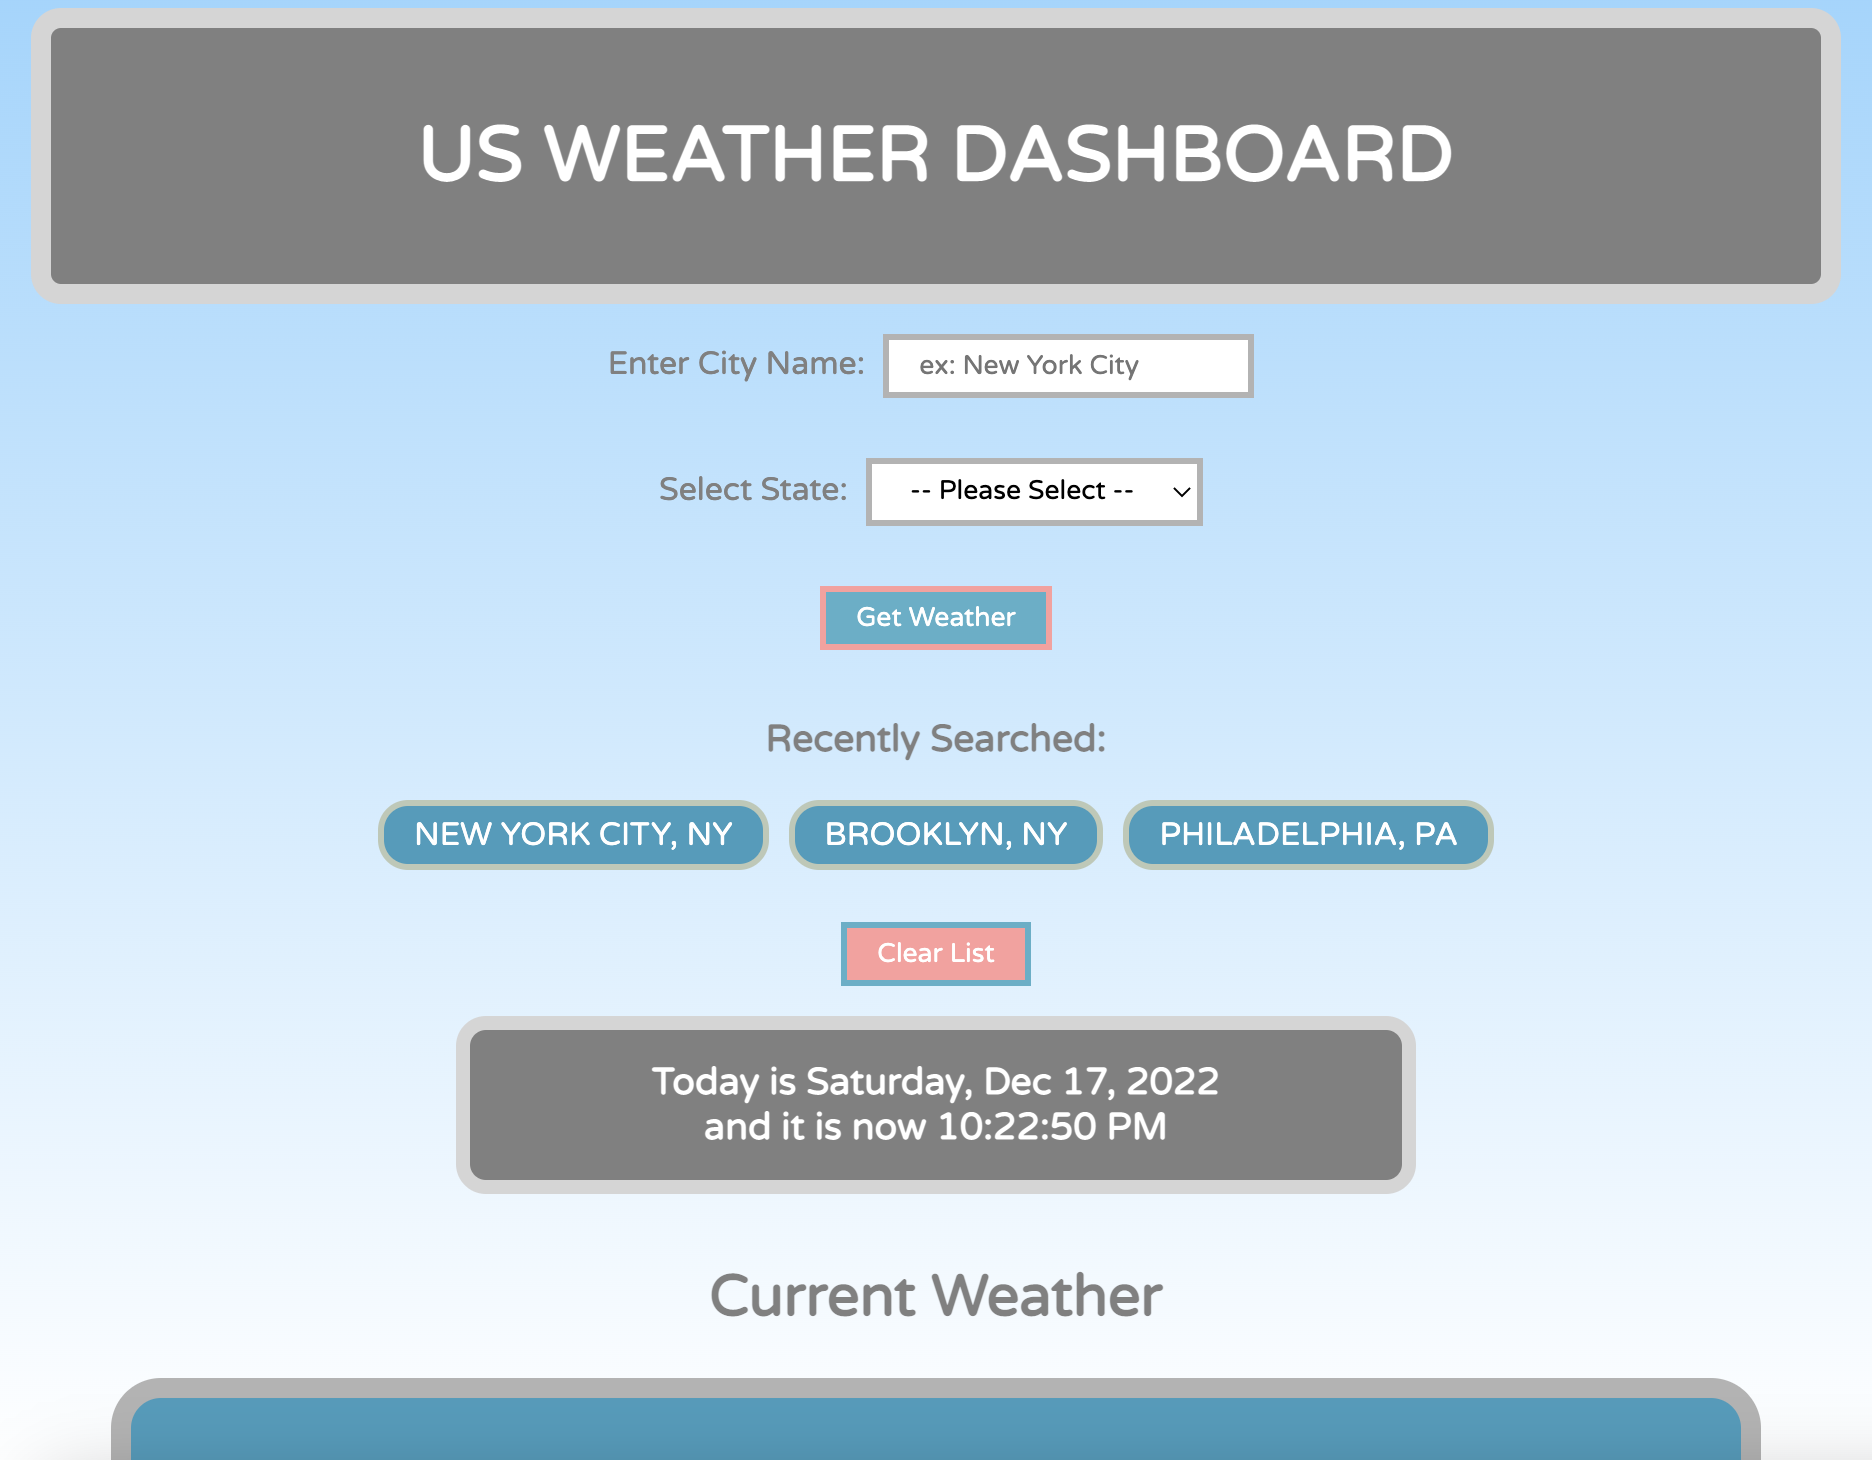
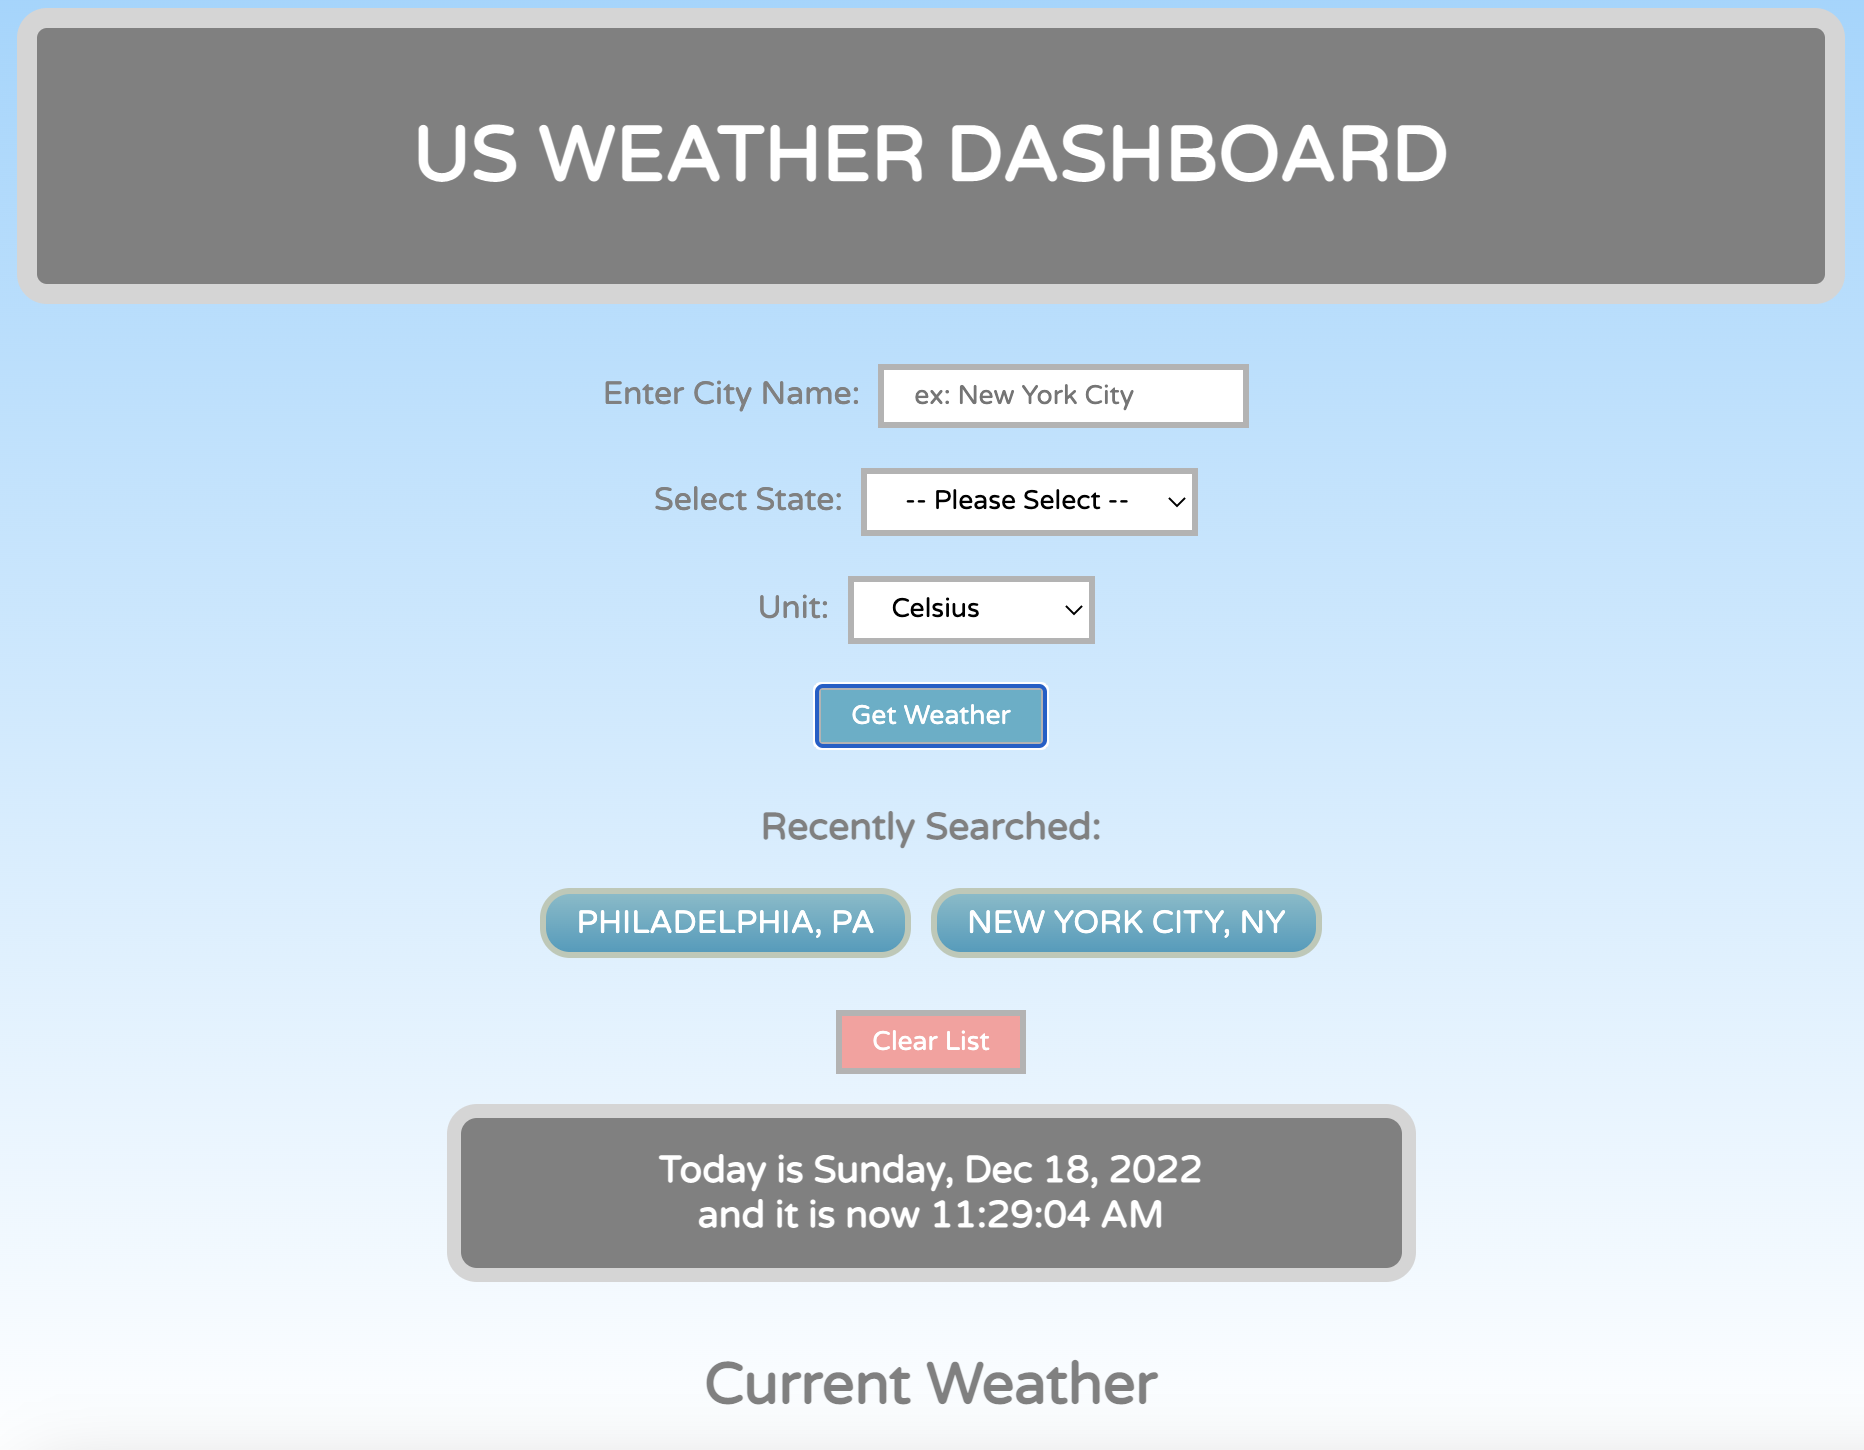
added functionality in js

diff --git a/Assets/script.js b/Assets/script.js
@@ -28,6 +28,7 @@ alarm.src = "Assets/Sound Effects/Hour Countdown.wav";
 
 var weatherDate = dayjs().format('ddd, MM / DD, YYYY');
 
+
 setInterval(function() {  
     var date = dayjs().format('dddd, MMM DD, YYYY');
     var time = dayjs().format('h:mm:ss A');  
@@ -39,6 +40,7 @@ setInterval(function() {
 
 
 },1000);
+
 
 
 // Retrieves search history from local storage and display previously searched cities with dataset of city info inside the html tag
@@ -63,6 +65,7 @@ $("#forecast-container").hide();
 $("#warning-1").hide();
 $("#warning-2").hide();
 $("#warning-3").hide();
+
 
 // Loops through previously searched city and displays as an unordered list
 // Need to figure out how to remove duplicates!
@@ -92,6 +95,10 @@ function getApi(event) {
     event.preventDefault(); 
 
     event.stopPropagation();
+
+    // Selects the chosen temp unit
+    var unit = $("#system").val();
+    var symbol = $("#system option:selected").attr("data-unit");
 
 
     // Takes input from user
@@ -229,7 +236,7 @@ function getApi(event) {
 
         
         // API request for current weather
-        var getCurrentUrl = "https://api.openweathermap.org/data/2.5/weather?lat=" + latitude + "&lon=" + longitude + "&units=imperial&appid=7df7243f5169b46433ea853892fbb930";
+        var getCurrentUrl = "https://api.openweathermap.org/data/2.5/weather?lat=" + latitude + "&lon=" + longitude + "&units=" + unit + "&appid=7df7243f5169b46433ea853892fbb930";
 
         // Displays weather boxes
         $("#current-weather-container").show();
@@ -256,16 +263,16 @@ function getApi(event) {
             $("#today").text(weatherDate);
             $("#weather-icon").attr("src","https://openweathermap.org/img/w/" + data.weather[0].icon + ".png");
             $("#condition").text(data.weather[0].description.toUpperCase());
-            $("#temp").text("Temperature: " + data.main.temp + "°F");
-            $("#feel").text("Feels Like: " + data.main.feels_like + "°F");
-            $("#temp-max").text("High: " + data.main.temp_max + "°F");
-            $("#temp-min").text("Low: " + data.main.temp_min + "°F");
+            $("#temp").text("Temperature: " + data.main.temp + symbol);
+            $("#feel").text("Feels Like: " + data.main.feels_like + symbol);
+            $("#temp-max").text("High: " + data.main.temp_max + symbol);
+            $("#temp-min").text("Low: " + data.main.temp_min + symbol);
             $("#wind").text("Wind Speed: " + data.wind.speed + "mph");
             $("#humidity").text("Humidity: " + data.main.humidity + "%")
         })
 
         // API request url for 5-day forecast
-        var getForecastUrl = "https://api.openweathermap.org/data/2.5/forecast?lat=" +latitude + "&lon=" + longitude + "&units=imperial&appid=7df7243f5169b46433ea853892fbb930";
+        var getForecastUrl = "https://api.openweathermap.org/data/2.5/forecast?lat=" +latitude + "&lon=" + longitude + "&units=" + unit + "&appid=7df7243f5169b46433ea853892fbb930";
 
         // GET request for 5-day forecast
         fetch(getForecastUrl)
@@ -296,7 +303,7 @@ function getApi(event) {
             $("#date-1").text(dateArray1[1] + " / " + dateArray1[2] + ", " + dateArray1[0]);
             $("#weather-icon-1").attr("src","https://openweathermap.org/img/w/" + data.list[4].weather[0].icon + ".png");
             $("#condition-1").text(data.list[4].weather[0].description.toUpperCase());
-            $("#temp-1").text("Temperature: " + data.list[4].main.temp + "°F");
+            $("#temp-1").text("Temperature: " + data.list[4].main.temp + symbol);
             $("#humidity-1").text("Humidity: " + data.list[4].main.humidity + "%");
             $("#wind-1").text("Wind Speed: " + data.list[4].wind.speed + "mph");
 
@@ -304,7 +311,7 @@ function getApi(event) {
             $("#date-2").text(dateArray2[1] + " / " + dateArray2[2] + ", " + dateArray2[0]);
             $("#weather-icon-2").attr("src","https://openweathermap.org/img/w/" + data.list[12].weather[0].icon + ".png");
             $("#condition-2").text(data.list[12].weather[0].description.toUpperCase());
-            $("#temp-2").text("Temperature: " + data.list[12].main.temp + "°F");
+            $("#temp-2").text("Temperature: " + data.list[12].main.temp + symbol);
             $("#humidity-2").text("Humidity: " + data.list[12].main.humidity + "%");
             $("#wind-2").text("Wind Speed: " + data.list[12].wind.speed + "mph");
 
@@ -312,7 +319,7 @@ function getApi(event) {
             $("#date-3").text(dateArray3[1] + " / " + dateArray3[2] + ", " + dateArray3[0]);
             $("#weather-icon-3").attr("src","https://openweathermap.org/img/w/" + data.list[20].weather[0].icon + ".png");
             $("#condition-3").text(data.list[20].weather[0].description.toUpperCase());
-            $("#temp-3").text("Temperature: " + data.list[20].main.temp + "°F");
+            $("#temp-3").text("Temperature: " + data.list[20].main.temp + symbol);
             $("#humidity-3").text("Humidity: " + data.list[20].main.humidity + "%");
             $("#wind-3").text("Wind Speed: " + data.list[20].wind.speed + "mph");
 
@@ -320,7 +327,7 @@ function getApi(event) {
             $("#date-4").text(dateArray4[1] + " / " + dateArray4[2] + ", " + dateArray4[0]);
             $("#weather-icon-4").attr("src","https://openweathermap.org/img/w/" + data.list[28].weather[0].icon + ".png");
             $("#condition-4").text(data.list[28].weather[0].description.toUpperCase());
-            $("#temp-4").text("Temperature: " + data.list[28].main.temp + "°F");
+            $("#temp-4").text("Temperature: " + data.list[28].main.temp + symbol);
             $("#humidity-4").text("Humidity: " + data.list[28].main.humidity + "%");
             $("#wind-4").text("Wind Speed: " + data.list[28].wind.speed + "mph");
 
@@ -328,7 +335,7 @@ function getApi(event) {
             $("#date-5").text(dateArray5[1] + " / " + dateArray5[2] + ", " + dateArray5[0]);
             $("#weather-icon-5").attr("src","https://openweathermap.org/img/w/" + data.list[36].weather[0].icon + ".png");
             $("#condition-5").text(data.list[36].weather[0].description.toUpperCase());
-            $("#temp-5").text("Temperature: " + data.list[36].main.temp + "°F");
+            $("#temp-5").text("Temperature: " + data.list[36].main.temp + symbol);
             $("#humidity-5").text("Humidity: " + data.list[36].main.humidity + "%");
             $("#wind-5").text("Wind Speed: " + data.list[36].wind.speed + "mph"); 
 
@@ -351,6 +358,10 @@ function getApi(event) {
 // To retrieve updated weather data from search history
 function refreshWeather(event) {
 
+    // Selects the chosen temp unit
+    var unit = $("#system").val();
+    var symbol = $("#system option:selected").attr("data-unit");
+
     startSearch.play();
     $("#warning-1").hide();
     $("#warning-2").hide();
@@ -370,7 +381,7 @@ function refreshWeather(event) {
 
 
 
-    var getCurrentUrl = "https://api.openweathermap.org/data/2.5/weather?lat=" + latitude + "&lon=" + longitude + "&units=imperial&appid=7df7243f5169b46433ea853892fbb930";
+    var getCurrentUrl = "https://api.openweathermap.org/data/2.5/weather?lat=" + latitude + "&lon=" + longitude + "&units=" + unit +"&appid=7df7243f5169b46433ea853892fbb930";
 
         // Displays weather boxes
         $("#current-weather-container").show();
@@ -389,16 +400,16 @@ function refreshWeather(event) {
             $("#today").text(weatherDate);
             $("#weather-icon").attr("src","https://openweathermap.org/img/w/" + data.weather[0].icon + ".png");
             $("#condition").text(data.weather[0].description.toUpperCase());
-            $("#temp").text("Temperature: " + data.main.temp + "°F");
-            $("#feel").text("Feels Like: " + data.main.feels_like + "°F");
-            $("#temp-max").text("High: " + data.main.temp_max + "°F");
-            $("#temp-min").text("Low: " + data.main.temp_min + "°F");
+            $("#temp").text("Temperature: " + data.main.temp + symbol);
+            $("#feel").text("Feels Like: " + data.main.feels_like + symbol);
+            $("#temp-max").text("High: " + data.main.temp_max + symbol);
+            $("#temp-min").text("Low: " + data.main.temp_min + symbol);
             $("#wind").text("Wind Speed: " + data.wind.speed + "mph");
             $("#humidity").text("Humidity: " + data.main.humidity + "%")
         })
 
         // API request url for 5-day forecast
-        var getForecastUrl = "https://api.openweathermap.org/data/2.5/forecast?lat=" +latitude + "&lon=" + longitude + "&units=imperial&appid=7df7243f5169b46433ea853892fbb930";
+        var getForecastUrl = "https://api.openweathermap.org/data/2.5/forecast?lat=" +latitude + "&lon=" + longitude + "&units=" + unit + "&appid=7df7243f5169b46433ea853892fbb930";
 
         // GET request for 5-day forecast
         fetch(getForecastUrl)
@@ -428,7 +439,7 @@ function refreshWeather(event) {
             $("#date-1").text(dateArray1[1] + " / " + dateArray1[2] + ", " + dateArray1[0]);
             $("#weather-icon-1").attr("src","https://openweathermap.org/img/w/" + data.list[4].weather[0].icon + ".png");
             $("#condition-1").text(data.list[4].weather[0].description.toUpperCase());
-            $("#temp-1").text("Temperature: " + data.list[4].main.temp + "°F");
+            $("#temp-1").text("Temperature: " + data.list[4].main.temp + symbol);
             $("#humidity-1").text("Humidity: " + data.list[4].main.humidity + "%");
             $("#wind-1").text("Wind Speed: " + data.list[4].wind.speed + "mph");
 
@@ -436,7 +447,7 @@ function refreshWeather(event) {
             $("#date-2").text(dateArray2[1] + " / " + dateArray2[2] + ", " + dateArray2[0]);
             $("#weather-icon-2").attr("src","https://openweathermap.org/img/w/" + data.list[12].weather[0].icon + ".png");
             $("#condition-2").text(data.list[12].weather[0].description.toUpperCase());
-            $("#temp-2").text("Temperature: " + data.list[12].main.temp + "°F");
+            $("#temp-2").text("Temperature: " + data.list[12].main.temp + symbol);
             $("#humidity-2").text("Humidity: " + data.list[12].main.humidity + "%");
             $("#wind-2").text("Wind Speed: " + data.list[12].wind.speed + "mph");
 
@@ -444,7 +455,7 @@ function refreshWeather(event) {
             $("#date-3").text(dateArray3[1] + " / " + dateArray3[2] + ", " + dateArray3[0]);
             $("#weather-icon-3").attr("src","https://openweathermap.org/img/w/" + data.list[20].weather[0].icon + ".png");
             $("#condition-3").text(data.list[20].weather[0].description.toUpperCase());
-            $("#temp-3").text("Temperature: " + data.list[20].main.temp + "°F");
+            $("#temp-3").text("Temperature: " + data.list[20].main.temp + symbol);
             $("#humidity-3").text("Humidity: " + data.list[20].main.humidity + "%");
             $("#wind-3").text("Wind Speed: " + data.list[20].wind.speed + "mph");
 
@@ -452,7 +463,7 @@ function refreshWeather(event) {
             $("#date-4").text(dateArray4[1] + " / " + dateArray4[2] + ", " + dateArray4[0]);
             $("#weather-icon-4").attr("src","https://openweathermap.org/img/w/" + data.list[28].weather[0].icon + ".png");
             $("#condition-4").text(data.list[28].weather[0].description.toUpperCase());
-            $("#temp-4").text("Temperature: " + data.list[28].main.temp + "°F");
+            $("#temp-4").text("Temperature: " + data.list[28].main.temp + symbol);
             $("#humidity-4").text("Humidity: " + data.list[28].main.humidity + "%");
             $("#wind-4").text("Wind Speed: " + data.list[28].wind.speed + "mph");
 
@@ -460,7 +471,7 @@ function refreshWeather(event) {
             $("#date-5").text(dateArray5[1] + " / " + dateArray5[2] + ", " + dateArray5[0]);
             $("#weather-icon-5").attr("src","https://openweathermap.org/img/w/" + data.list[36].weather[0].icon + ".png");
             $("#condition-5").text(data.list[36].weather[0].description.toUpperCase());
-            $("#temp-5").text("Temperature: " + data.list[36].main.temp + "°F");
+            $("#temp-5").text("Temperature: " + data.list[36].main.temp + symbol);
             $("#humidity-5").text("Humidity: " + data.list[36].main.humidity + "%");
             $("#wind-5").text("Wind Speed: " + data.list[36].wind.speed + "mph");
 

diff --git a/index.html b/index.html
@@ -92,6 +92,13 @@
                     <option value="WY">Wyoming</option>
                 </select>
             </div>
+            <div id="unit-input">
+                <label id="unit-label" for="system">Unit:</label>
+                <select name="system" id="system">
+                    <option value="imperial" data-unit="°F">Fahrenheit</option>
+                    <option value="metric" data-unit="°C">Celsius</option>
+                </select>
+            </div>
             <div id="submit">
                 <h3 id="warning-1" class="empty">Oops! Location Not Found!</h3>
                 <h3 id="warning-2" class="empty">Please Enter Both City and State!</h3>

diff --git a/Assets/style.css b/Assets/style.css
@@ -61,6 +61,7 @@ header {
     flex-direction: column;
     align-content: center;
     margin: 0px auto;
+    margin-bottom: 20px;
     color: white;
     background-color: var(--dark);
     font-size: 1.2rem;
@@ -89,7 +90,7 @@ label {
     flex-direction: column;
 }
 
-#search-city, #state {
+#search-city, #state, #system {
     padding: 5px 15px;
     margin: 5px 5px;
     border: 3px solid var(--shade);
@@ -147,10 +148,10 @@ label {
 }
 
 
-#city-input,#state-input,#submit {
+#city-input,#state-input,#unit-input,#submit {
     display:block;
     text-align: center;
-    margin: 10px auto;
+    margin: 5px auto;
 }
 
 /* Current weather styling */

diff --git a/README.md b/README.md
@@ -7,6 +7,8 @@ Simply enter the city and select the state from the drop-down menu, and you'll b
 
 Once you've successfully searched for a city, that city will be listed under "Recently Searched", and can be accessed in the future for its updated weather by clicking. The "Clear List" button allows users to clear their search history and repopulate a new list.
 
+The Unit select menu allows users to choose between Fahrenheit and Celsius for the temperature display, and they can switch anytime by changing the option when searching for a new city or before clicking on one of the cities on the "Recently Searched" list.
+
 There's also a clock in the middle of the page for users to check the date and time. It also has a countdown sound effect that beeps on the hour. 
 
 At the bottom of the page is a "Back to Top" button for users to be taken back to the top of the webpage for another search. 
@@ -21,6 +23,7 @@ Here's a screenshot of the webpage:
 ![image](Assets/Screenshot-1.png)
 ![image](Assets/Screenshot-2.png)
 ![image](Assets/Screenshot-3.png)
+
 
 ## Installation
 
